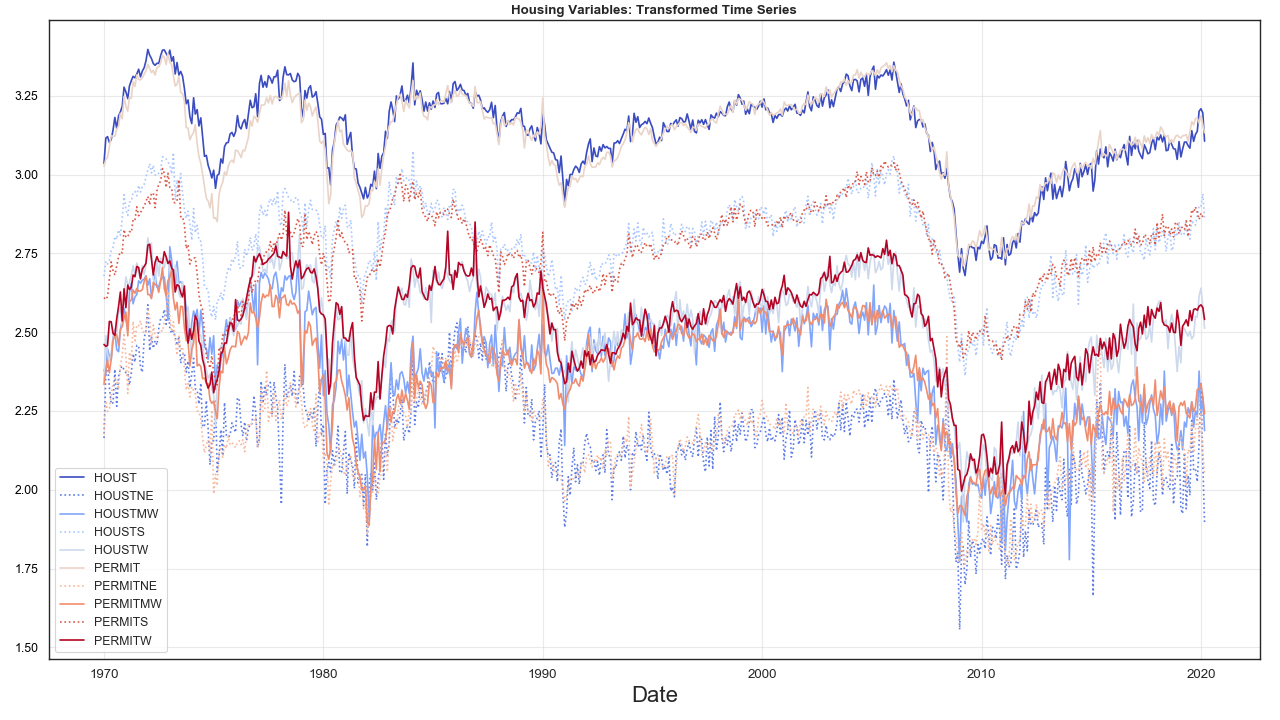
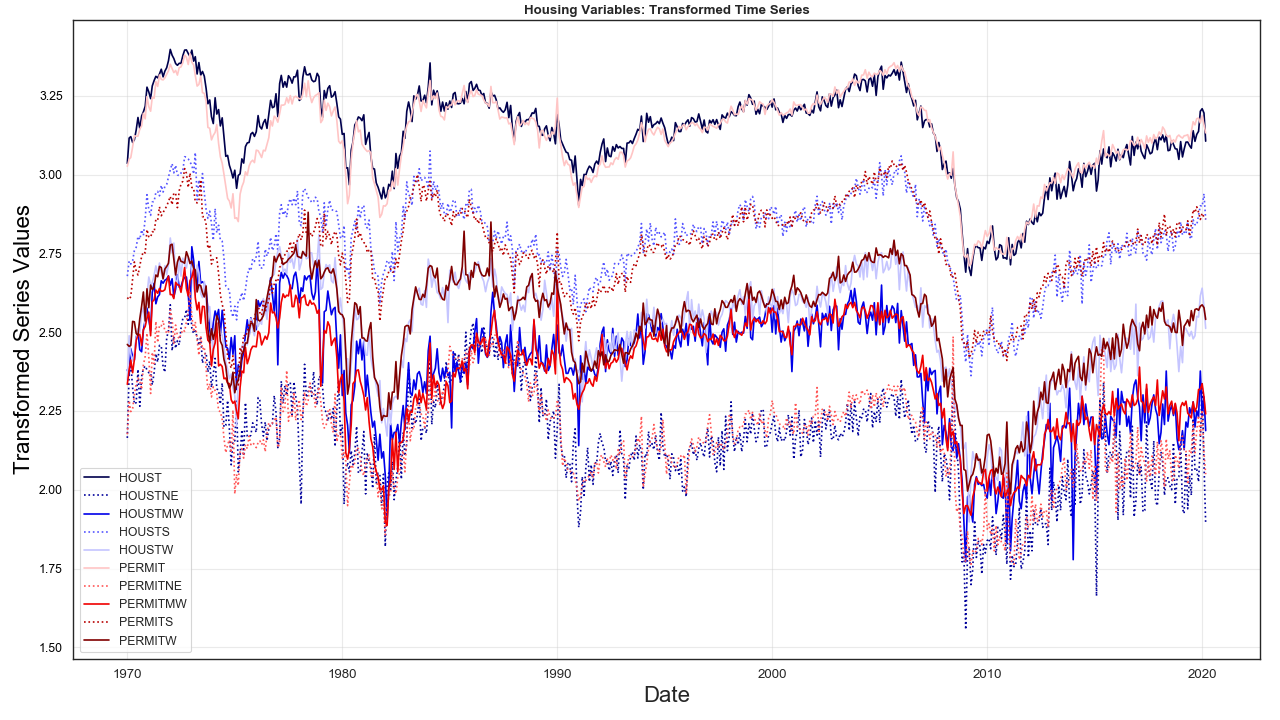
data preprocessing

diff --git a/src/data/make_dataset.py b/src/data/make_dataset.py
@@ -23,66 +23,37 @@ class DatasetMaker():
 
     Also feature creation and saves copy of features locally and to s3.'''
     
-    def __init__(self):
+    def __init__(self, logger):
+        self.logger = logger
         sns.set(style="white")
         register_matplotlib_converters()
         self.s3_client = boto3.client('s3')
         self.graphics_path = Path(__file__).resolve().parents[2].joinpath('reports').resolve().joinpath('figures').resolve()
+        self.data_path = Path(__file__).resolve().parents[2].joinpath('data').resolve().joinpath('processed').resolve()
 
     def get_data(self):
 
         '''Reads in csv from s3'''
         obj = self.s3_client.get_object(Bucket=BUCKET, Key='current.csv')
         self.raw_df = pd.read_csv(io.BytesIO(obj['Body'].read()))
+        self.logger.info('loaded data, now cleaning...')
     
     def prelim_null_analysis(self):
 
         '''Removes older dates driving most of the nulls'''
+        self.logger.info('now norming / transforming into stationary variables...')
         # remove 1960's due to significant missing values
         self.interim_df = self.raw_df.iloc[1:].iloc[:-1] # last row + transforms row
         self.interim_df['sasdate'] = pd.to_datetime(self.interim_df['sasdate'], format="%m/%d/%Y")
         self.interim_df = self.interim_df[self.interim_df.sasdate.dt.year >= 1970]
 
-        print('Total obs: ', self.interim_df.shape[0])
         null_counts =  pd.DataFrame(self.interim_df.isnull().sum(axis = 0))
         null_counts.columns = ['null_count']
         nulls = null_counts[null_counts.null_count > 0]
-        print(nulls)
+        #print(nulls)
 
-        # will likely simply remove the 4 variables w/nulls, first visualizing raw + suggested transformed/stationary
         # ensure numeric
         self.interim_df.iloc[:, 1:].apply(pd.to_numeric)
-
-    def _plot_group_variables(self, indices, plot_title, png_title):
-
-        '''sub function for using within time series visualization function'''
-        df = self.transformed_df.iloc[:, [i-2 for i in indices]] # Appdx key is off by 3
-        # graph
-        x =self.transformed_df.sasdate
-        
-        fig, ax1 = plt.subplots(1,1, figsize=(16,9), dpi= 80)
-
-        colormap = plt.get_cmap('coolwarm')
-        ax1.set_prop_cycle(cycler('color', [colormap(k) for k in np.linspace(0, 1, 10)]) +
-                   cycler('linestyle', ['-', ':', '-', ':', '-', '-', ':', '-', ':', '-']))
-
-        for col in df.columns:
-            ax1.plot(x, df[col], label=col)
-        
-        # Decorations
-        ax1.set_xlabel('Date', fontsize=20)
-        ax1.tick_params(axis='x', rotation=0, labelsize=12)
-        ax1.set_ylabel('Transformed Series Values', color='black', fontsize=20)
-        ax1.tick_params(axis='y', rotation=0, labelcolor='black' )
-        ax1.grid(alpha=.4)
-
-        fig.tight_layout()
-        plt.legend()
-        plt.title(plot_title, fontsize=12, fontweight='bold')
-        plt.show()
-        
-        pth = Path(self.graphics_path, 'time_series_transformed_'+png_title).with_suffix('.png')
-        fig.savefig(pth)
 
     def transform_stationary(self):
 
@@ -112,95 +83,131 @@ class DatasetMaker():
         self.transformed_df = reduce(lambda  left, right: left.join(right, how='outer'), frames)
         self.transformed_df = self.transformed_df[[c for c in self.raw_df.columns]] # put back in original order for grouping plotting
 
+    def _plot_group_variables(self, indices, plot_title, png_title):
+
+        '''sub function for using within time series visualization function'''
+        df = self.transformed_df.iloc[:, [i-2 for i in indices]] # Appdx key is off by 3
+        # graph
+        x =self.transformed_df.sasdate
+        
+        fig, ax1 = plt.subplots(1,1, figsize=(16,9), dpi= 80)
+
+        colormap = plt.get_cmap('seismic')
+        ax1.set_prop_cycle(cycler('color', [colormap(k) for k in np.linspace(0, 1, 10)]) +
+                   cycler('linestyle', ['-', ':', '-', ':', '-', '-', ':', '-', ':', '-']))
+
+        for col in df.columns:
+            ax1.plot(x, df[col], label=col)
+        
+        # Decorations
+        ax1.set_xlabel('Date', fontsize=20)
+        ax1.tick_params(axis='x', rotation=0, labelsize=12)
+        ax1.set_ylabel('Transformed Series Values', color='black', fontsize=20)
+        ax1.tick_params(axis='y', rotation=0, labelcolor='black' )
+        ax1.grid(alpha=.4)
+
+        fig.tight_layout()
+        plt.legend()
+        plt.title(plot_title, fontsize=12, fontweight='bold')
+        
+        pth = Path(self.graphics_path, 'time_series_transformed_'+png_title).with_suffix('.png')
+        fig.savefig(pth)
+
     def visualize_transformed_data(self):
 
+        '''Visualizations of select time series variables, by group/type'''
         # housing variables
-        housing_indx = list(range(50, 60)) # from Appdnx key
-        self._plot_group_variables(housing_indx, 'Housing Variables: Transformed Time Series', 'housing')
+        indx = list(range(50, 60)) # from Appdnx key
+        self._plot_group_variables(indx, 'Housing Variables: Transformed Time Series', 'housing')
 
+        indx = list(range(6, 21)) # from Appdnx key
+        self._plot_group_variables(indx, 'Output Variables: Transformed Time Series', 'output')
 
-    def visualize_store_types(self):
-        grouped_df = self.raw_df.groupby(['Date', 'Type', 'Store']).sum().reset_index() # adding up the Dept sales for each store / date, keeping Type along for the ride
-        grouped_df = grouped_df.groupby(['Date', 'Type']).mean().reset_index()[['Weekly_Sales', 'Type', 'Date']] # avg Total weekly sales across the stores by type / date
-        
-        # graph
-        pv = pd.pivot_table(grouped_df, index='Date', columns='Type', values='Weekly_Sales').reset_index()
-        x = pd.to_datetime(pv['Date']) 
-        y1 = pv['A']
-        y2 = pv['B']
-        y3 = pv['C']
+        indx = [3, 4, 5, 60, 61, 62, 63, 64, 65, 66, 67, 68, 69] # from Appdnx key
+        self._plot_group_variables(indx, 'Consumption Variables: Transformed Time Series', 'consumption')
 
-        # Plot Line1 (Left Y Axis)
-        fig, ax1 = plt.subplots(1,1, figsize=(16,9), dpi= 80)
-        ax1.plot(x, y1, color='gray', label='Type: A')
-        ax1.plot(x, y2, color='deepskyblue', label='Type: B', linestyle='--')
-        ax1.plot(x, y3, color='crimson', linestyle=':', label='Type: C')
+        indx = list(range(66, 69)) # from Appdnx key
+        self._plot_group_variables(indx, 'Money Variables: Transformed Time Series', 'money')
 
-        # Decorations
-        # ax1 (left Y axis)
-        ax1.set_xlabel('Date', fontsize=20)
-        ax1.tick_params(axis='x', rotation=0, labelsize=12)
-        ax1.set_ylabel('Average Weekly Total Store Sales', color='black', fontsize=20)
-        ax1.tick_params(axis='y', rotation=0, labelcolor='black' )
-        ax1.grid(alpha=.4)
+        # note extreme outlier in nonborrowed reserves in '08 - considering excluding from final set
+        #indx = list(range(66, 74)) # from Appdnx key
+        #self._plot_group_variables(indx, 'Money Variables: Transformed Time Series', 'money')
 
-        fig.tight_layout()
-        plt.legend()
-        plt.title('Time Series Plot of Weekly Sales by Store Type', fontsize=12, fontweight='bold')
+        indx = list(range(80, 97)) # from Appdnx key
+        self._plot_group_variables(indx, 'Interest Rate Variables: Transformed Time Series', 'interestrates')
 
-        pth = Path(self.graphics_path, 'time_series_store_type').with_suffix('.png')
-        fig.savefig(pth)
+        indx = list(range(97, 102)) # from Appdnx key
+        self._plot_group_variables(indx, 'Exchange Rate Variables: Transformed Time Series', 'fxrates')
 
-    def visualize_departments(self):
-        df = self.raw_df.groupby(['Dept', 'Type']).mean().reset_index()[['Weekly_Sales', 'Dept', 'Type']] # adding up the sales for each dept / date
-        
-        # Draw Plot
-        f, ax = plt.subplots(1,1, figsize=(16,10), dpi= 80)
+        indx = list(range(23, 44)) # from Appdnx key
+        self._plot_group_variables(indx, 'Labor Variables: Transformed Time Series', 'labor')
 
-        sns.kdeplot(df.loc[df['Type'] == 'A', "Weekly_Sales"], shade=True, color="gray", label="Store Type=A", alpha=.7, ax=ax)
-        sns.kdeplot(df.loc[df['Type'] == 'B', "Weekly_Sales"], shade=True, color="crimson", label="Store Type=B", alpha=.7, ax=ax)
-        sns.kdeplot(df.loc[df['Type'] == 'C', "Weekly_Sales"], shade=True, color="dodgerblue", label="Store Type=C", alpha=.7, ax=ax)
+        indx = list(range(107, 121)) # from Appdnx key
+        self._plot_group_variables(indx, 'Price Variables: Transformed Time Series', 'prices')
 
-        # Decoration
-        plt.title('Distribution of Average Weekly Sales Across Departments (by Store Type)', fontsize=22)
-        plt.legend()
+    def explore_correlations(self):
 
-        pth = Path(self.graphics_path, 'kernel_density_plot_depts').with_suffix('.png')
+        '''Visualize correlations of post-transformed data'''
+        correl = self.transformed_df.iloc[1:,60:]
+        corr = correl.corr()
+        # generate a mask for the upper triangle
+        mask = np.zeros_like(corr, dtype=np.bool)
+        mask[np.triu_indices_from(mask)] = True
+
+        f, ax = plt.subplots(figsize=(17, 17))
+
+        # generate a custom diverging colormap
+        cmap = sns.diverging_palette(10, 220, as_cmap=True)
+
+        # Draw the heatmap with the mask and correct aspect ratio
+        sns.heatmap(corr, mask=mask, cmap=cmap, center=0, ax=ax,
+                    square=True, linewidths=.2, cbar_kws={"shrink": 0.5})
+        pth = Path(self.graphics_path, 'correlation_matrix_1').with_suffix('.png')
         f.savefig(pth)
+        self.logger.info('plotted and save figures in /reports/figures/')
 
-    def visualize_markdowns(self):
-        grouped_df = self.raw_df.groupby(['Date']).mean().reset_index()[['Date', 'MarkDown1', 'MarkDown2', 'MarkDown3', 'MarkDown4', 'MarkDown5']] # avg 5 markdown columns
-        
+    def plot_y_var(self):
+
+        '''plotting dependent variable visually post and pre-transform'''
+        df = self.transformed_df.copy()
         # graph
-        x = pd.to_datetime(grouped_df['Date'])
+        x =self.transformed_df.sasdate
         
         fig, ax1 = plt.subplots(1,1, figsize=(16,9), dpi= 80)
-        ax1.set_prop_cycle(cycler('color', ['gray', 'crimson', 'dodgerblue', 'b', 'navy']) +
-                   cycler('linestyle', ['-', ':', '-', ':', '-']))
 
-        for col in grouped_df.columns[1:]:
-            ax1.plot(x, grouped_df[col], label=col)
+        ax1.fill_between(x, df['BAAFFM'], label='Baa-FF spread', alpha=0.4, color='dodgerblue')
         
         # Decorations
         ax1.set_xlabel('Date', fontsize=20)
         ax1.tick_params(axis='x', rotation=0, labelsize=12)
-        ax1.set_ylabel('Average Weekly MarkDown (excl. NULLs)', color='black', fontsize=20)
+        ax1.set_ylabel('Transformed Series Values', color='black', fontsize=20)
         ax1.tick_params(axis='y', rotation=0, labelcolor='black' )
         ax1.grid(alpha=.4)
 
         fig.tight_layout()
         plt.legend()
-        plt.title('Time Series Plot of Weekly Avg. MarkDown Values', fontsize=12, fontweight='bold')
+        plt.title('Moody’s Baa Corporate Bond Minus FEDFUNDS', fontsize=12, fontweight='bold')
         
-        pth = Path(self.graphics_path, 'time_series_markdowns').with_suffix('.png')
+        pth = Path(self.graphics_path, 'dependent_var_time_series').with_suffix('.png')
         fig.savefig(pth)
+
+    def remove_null_outlier_cols(self):
+        '''Removes the columns with significant null values. Can also remove outlier series, nonborrowed reserves'''
+        self.logger.info('removing nulls and outliers, saving...')
+        to_remove = ['ACOGNO', 'S&P PE ratio', 'TWEXAFEGSMTHx', 'UMCSENTx'] # leaving reserves in for now
+
+        self.features_df = self.transformed_df.drop(to_remove, axis=1).iloc[1:, :]
+        pth = Path(self.data_path, 'features').with_suffix('.csv')
+        self.features_df.to_csv(pth)
 
     def execute_dataprep(self):
         self.get_data()
         self.prelim_null_analysis()
         self.transform_stationary()
         self.visualize_transformed_data()
-        #self.explore_correlations()
+        self.explore_correlations()
+        self.plot_y_var()
+        self.remove_null_outlier_cols()
 
 def main():
     """ Runs data processing scripts to turn raw data from s3 into
@@ -209,9 +216,8 @@ def main():
     logger = logging.getLogger(__name__)
     logger.info('making final data set from raw data')
 
-    EconData = DatasetMaker()
+    EconData = DatasetMaker(logger)
     EconData.execute_dataprep()
-
 
 if __name__ == '__main__':
     log_fmt = '%(asctime)s - %(name)s - %(levelname)s - %(message)s'
